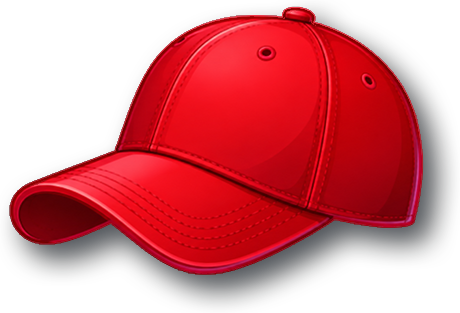
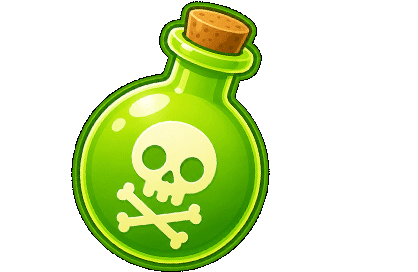
Scale Spine symbols from designSize and adopt 256px export standard.
Use packed art bounds for fit instead of the legacy 512 canvas, wire designSize for CH/OR, document the Suki 256x256 convention, and bump suki-engine to c1736d7.

diff --git a/js/pixi/symbolView.js b/js/pixi/symbolView.js
@@ -5,6 +5,7 @@
 import { Container, Graphics, Text } from 'pixi.js';
 import { Spine } from '@esotericsoftware/spine-pixi-v8';
 import {
+  SPINE_SYMBOL_FIT_RATIO,
   symbolGlyph,
   symbolLabel,
   symbolPayBadge,
@@ -494,17 +495,21 @@ export function createPlaceholderSymbol(id, cellW, cellH, span = 1) {
  * @param {number} cellW
  * @param {number} blockHeight
  * @param {{ idle?: string, land?: string, win?: string }} [animations]
+ * @param {{ designSize?: { width: number, height: number } }} [spineMeta]
  * @returns {{ root: Container, spine: Spine }}
  */
-export function createSpineSymbol(skeletonData, cellW, blockHeight, animations = {}) {
+export function createSpineSymbol(skeletonData, cellW, blockHeight, animations = {}, spineMeta = {}) {
   const spine = new Spine(skeletonData);
   spine.skeleton.setToSetupPose();
   spine.update(0);
 
   const bounds = spine.getLocalBounds();
-  const fit = Math.min(cellW, blockHeight) * 0.82;
+  const fit = Math.min(cellW, blockHeight) * SPINE_SYMBOL_FIT_RATIO;
+  const design = spineMeta.designSize;
+  const contentW = design?.width > 0 ? design.width : bounds.width;
+  const contentH = design?.height > 0 ? design.height : bounds.height;
   const scale =
-    fit / Math.max(bounds.width > 0 ? bounds.width : cellW, bounds.height > 0 ? bounds.height : blockHeight, 1);
+    fit / Math.max(contentW > 0 ? contentW : cellW, contentH > 0 ? contentH : blockHeight, 1);
   spine.scale.set(scale);
   spine.x = -(bounds.x + bounds.width / 2) * scale;
   spine.y = -(bounds.y + bounds.height / 2) * scale;
@@ -540,7 +545,7 @@ export function createSymbolNode({ id, cellW, cellH, span = 1, spineData, state 
   let spine = null;
 
   if (spineData && !useTallPlaceholder) {
-    const built = createSpineSymbol(spineData, cellW, blockHeight, visual.animations);
+    const built = createSpineSymbol(spineData, cellW, blockHeight, visual.animations, visual.spine ?? {});
     root = built.root;
     spine = built.spine;
   } else {

diff --git a/js/pixi/symbols.js b/js/pixi/symbols.js
@@ -6,7 +6,7 @@
 import { SYMBOLS } from '../config.js';
 import { formatBasePayMult, basePayForSymbol } from '../cluster.js';
 
-/** @typedef {{ skeleton: string, atlas: string, scale?: number }} SpineAssetPaths */
+/** @typedef {{ skeleton: string, atlas: string, scale?: number, designSize?: { width: number, height: number } }} SpineAssetPaths */
 /** @typedef {{ idle?: string, land?: string, win?: string, cascade?: string, spin?: string }} SymbolAnimations */
 
 /** Spine track names — export matching keys from the editor. */
@@ -17,6 +17,12 @@ export const SYMBOL_ANIMATION_DEFAULTS = {
   cascade: 'cascade',
 };
 
+/** Suki Engine standard Spine export canvas — see `@kap-solo/suki-engine` `SPINE_TEXTURE_CANVAS_SIZE`. */
+export const SPINE_TEXTURE_CANVAS_SIZE = 256;
+
+/** Board fit ratio — see `@kap-solo/suki-engine` `SPINE_SYMBOL_FIT_RATIO`. */
+export const SPINE_SYMBOL_FIT_RATIO = 0.82;
+
 /** @type {Record<string, { color: number, accent?: number, spine?: SpineAssetPaths | null, ledgerIcon?: string, animations?: SymbolAnimations }>} */
 export const SYMBOL_VISUAL = {
   CH: {
@@ -26,6 +32,8 @@ export const SYMBOL_VISUAL = {
       skeleton: 'assets/spine/cherry/cherry.json',
       atlas: 'assets/spine/cherry/cherry.atlas',
       scale: 1,
+      // Legacy 512 export — re-export at SPINE_TEXTURE_CANVAS_SIZE and halve these values
+      designSize: { width: 414, height: 268 },
     },
     ledgerIcon: 'assets/spine/cherry/cherry.png',
     animations: { ...SYMBOL_ANIMATION_DEFAULTS },
@@ -38,6 +46,8 @@ export const SYMBOL_VISUAL = {
       skeleton: 'assets/spine/orange/orange.json',
       atlas: 'assets/spine/orange/orange.atlas',
       scale: 1,
+      // Legacy 512 export — re-export at SPINE_TEXTURE_CANVAS_SIZE and halve these values
+      designSize: { width: 460, height: 313 },
     },
     ledgerIcon: 'assets/spine/orange/orange.png',
     animations: { ...SYMBOL_ANIMATION_DEFAULTS },

diff --git a/js/pixi/ledgerSpineIcon.js b/js/pixi/ledgerSpineIcon.js
@@ -70,7 +70,7 @@ export async function mountLedgerSpineIcon(hostEl, symbolId) {
 
   // Smaller fit box leaves room for idle motion inside the square host.
   const fitBox = size * 0.72;
-  const { root, spine } = createSpineSymbol(data, fitBox, fitBox, visual.animations);
+  const { root, spine } = createSpineSymbol(data, fitBox, fitBox, visual.animations, visual.spine ?? {});
   playLedgerSpineAnimation(spine, visual);
   root.x = app.screen.width / 2;
   root.y = app.screen.height / 2;

diff --git a/js/build-info.js b/js/build-info.js
@@ -1,2 +1,2 @@
 /** Generated by scripts/write-build-info.mjs — do not edit. */
-export const BUILD_COMMIT = '5b65aa3';
+export const BUILD_COMMIT = '1716958';

diff --git a/assets/spine/README.md b/assets/spine/README.md
@@ -1,50 +1,61 @@
-# Spine symbol assets
-
-Place one export folder per symbol id (`CH`, `LM`, `OR`, `GR`, `ST`, `S7`, `DM`, `CR`, `WD`).
-
-## Expected layout
-
-```
-assets/spine/cherry/
-  cherry.json      # or .skel
-  cherry.atlas
-  cherry.png
-```
-
-## Wire-up
-
-In `js/pixi/symbols.js`, set `SYMBOL_VISUAL.<ID>.spine`:
-
-```js
-CH: {
-  color: 0xd64545,
-  spine: {
-    skeleton: 'assets/spine/cherry/cherry.json',
-    atlas: 'assets/spine/cherry/cherry.atlas',
-    scale: 1,
-  },
-  animations: { ...SYMBOL_ANIMATION_DEFAULTS },
-},
-```
-
-Reload the game — placeholders are used until paths load successfully.
-
-## Animation names (convention)
-
-| State | Track 0 animation | Loop |
-|-------|---------------------|------|
-| idle / static | `idle` | yes |
-| spin (optional) | `spin` or `idle` | yes |
-| land | `land` | no → idle |
-| cascade | `cascade` | no → idle |
-| win | `win` | yes |
-
-During tumble/cascade, moving symbols and incoming refill cells call `cascade` (falls back to `land` if `cascade` has no keyframes yet).
-
-Export from Spine 4.2.x to match `@esotericsoftware/spine-pixi-v8@4.2.74`.
-
-## Tips
-
-- Keep symbol bounds consistent so scaling in `symbolView.js` looks even.
-- Use mesh/region attachments; avoid overly tall symbols that clip the reel mask.
-- Add reel frame / cabinet as separate Spine or PNG under `assets/ui/` (future).
+# Spine symbol assets
+
+Suki Engine standard: **256×256** export canvas (`SPINE_TEXTURE_CANVAS_SIZE` in `@kap-solo/suki-engine` and `js/pixi/symbols.js`).
+
+Place one export folder per symbol id (`CH`, `LM`, `OR`, `GR`, `ST`, `S7`, `DM`, `CR`, `WD`).
+
+## Expected layout
+
+```
+assets/spine/cherry/
+  cherry.json      # or .skel
+  cherry.atlas
+  cherry.png
+```
+
+## Wire-up
+
+In `js/pixi/symbols.js`, set `SYMBOL_VISUAL.<ID>.spine`:
+
+```js
+CH: {
+  color: 0xd64545,
+  spine: {
+    skeleton: 'assets/spine/cherry/cherry.json',
+    atlas: 'assets/spine/cherry/cherry.atlas',
+    scale: 1,
+    designSize: { width: 200, height: 130 }, // from .atlas bounds after export
+  },
+  animations: { ...SYMBOL_ANIMATION_DEFAULTS },
+},
+```
+
+Reload the game — placeholders are used until paths load successfully.
+
+## Animation names (convention)
+
+| State | Track 0 animation | Loop |
+|-------|---------------------|------|
+| idle / static | `idle` | yes |
+| spin (optional) | `spin` or `idle` | yes |
+| land | `land` | no → idle |
+| cascade | `cascade` | no → idle |
+| win | `win` | yes |
+
+During tumble/cascade, moving symbols and incoming refill cells call `cascade` (falls back to `land` if `cascade` has no keyframes yet).
+
+Export from Spine 4.2.x to match `@esotericsoftware/spine-pixi-v8@4.2.74`.
+
+## Authoring (256×256)
+
+1. **Export at 256×256** — crop to visible art; do not leave large transparent margins on a 512 canvas.
+2. Copy atlas `bounds:` width/height into `designSize` (drawable art size in skeleton space).
+3. Board symbols fit to **82%** of the cell (`SPINE_SYMBOL_FIT_RATIO` in `symbolView.js`).
+
+CH/OR in this repo are still **legacy 512 exports** — re-export at 256 and halve each `designSize` when you replace the files.
+
+## Tips
+
+- Keep `designSize` accurate per symbol so board and ledger icons stay sharp and evenly sized.
+- Use mesh/region attachments; avoid overly tall symbols that clip the reel mask.
+- Add reel frame / cabinet as separate Spine or PNG under `assets/ui/` (future).
